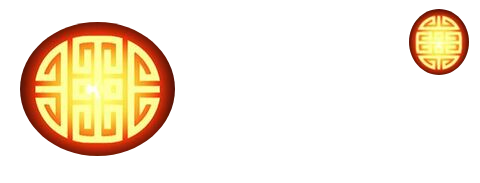
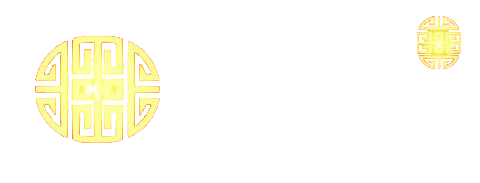
fix 34.png

Changed region(s): [[0.0312, 0.1093, 0.375, 0.8743], [0.8438, 0.0273, 1.0, 0.4098]]

diff --git a/src/composables/slotMachine/reels/tiles/config.js b/src/composables/slotMachine/reels/tiles/config.js
@@ -67,7 +67,7 @@ export const TILE_SLICES = {
   },
 
   bonus: {
-    base: { sourceSprite: 'tiles_34', icon: { x: 409, y: 8, w: 61, h: 68 }, scale: 1.8 },
+    base: { sourceSprite: 'tiles_34', icon: { x: 416, y: 16, w: 45, h: 53 }, scale: 1.8 },
     outSize: 512,
     layers: [
       { sourceSprite: 'tiles_29', icon: { x: 0, y: 1, w: 165, h: 180 }, scale: 2 },
